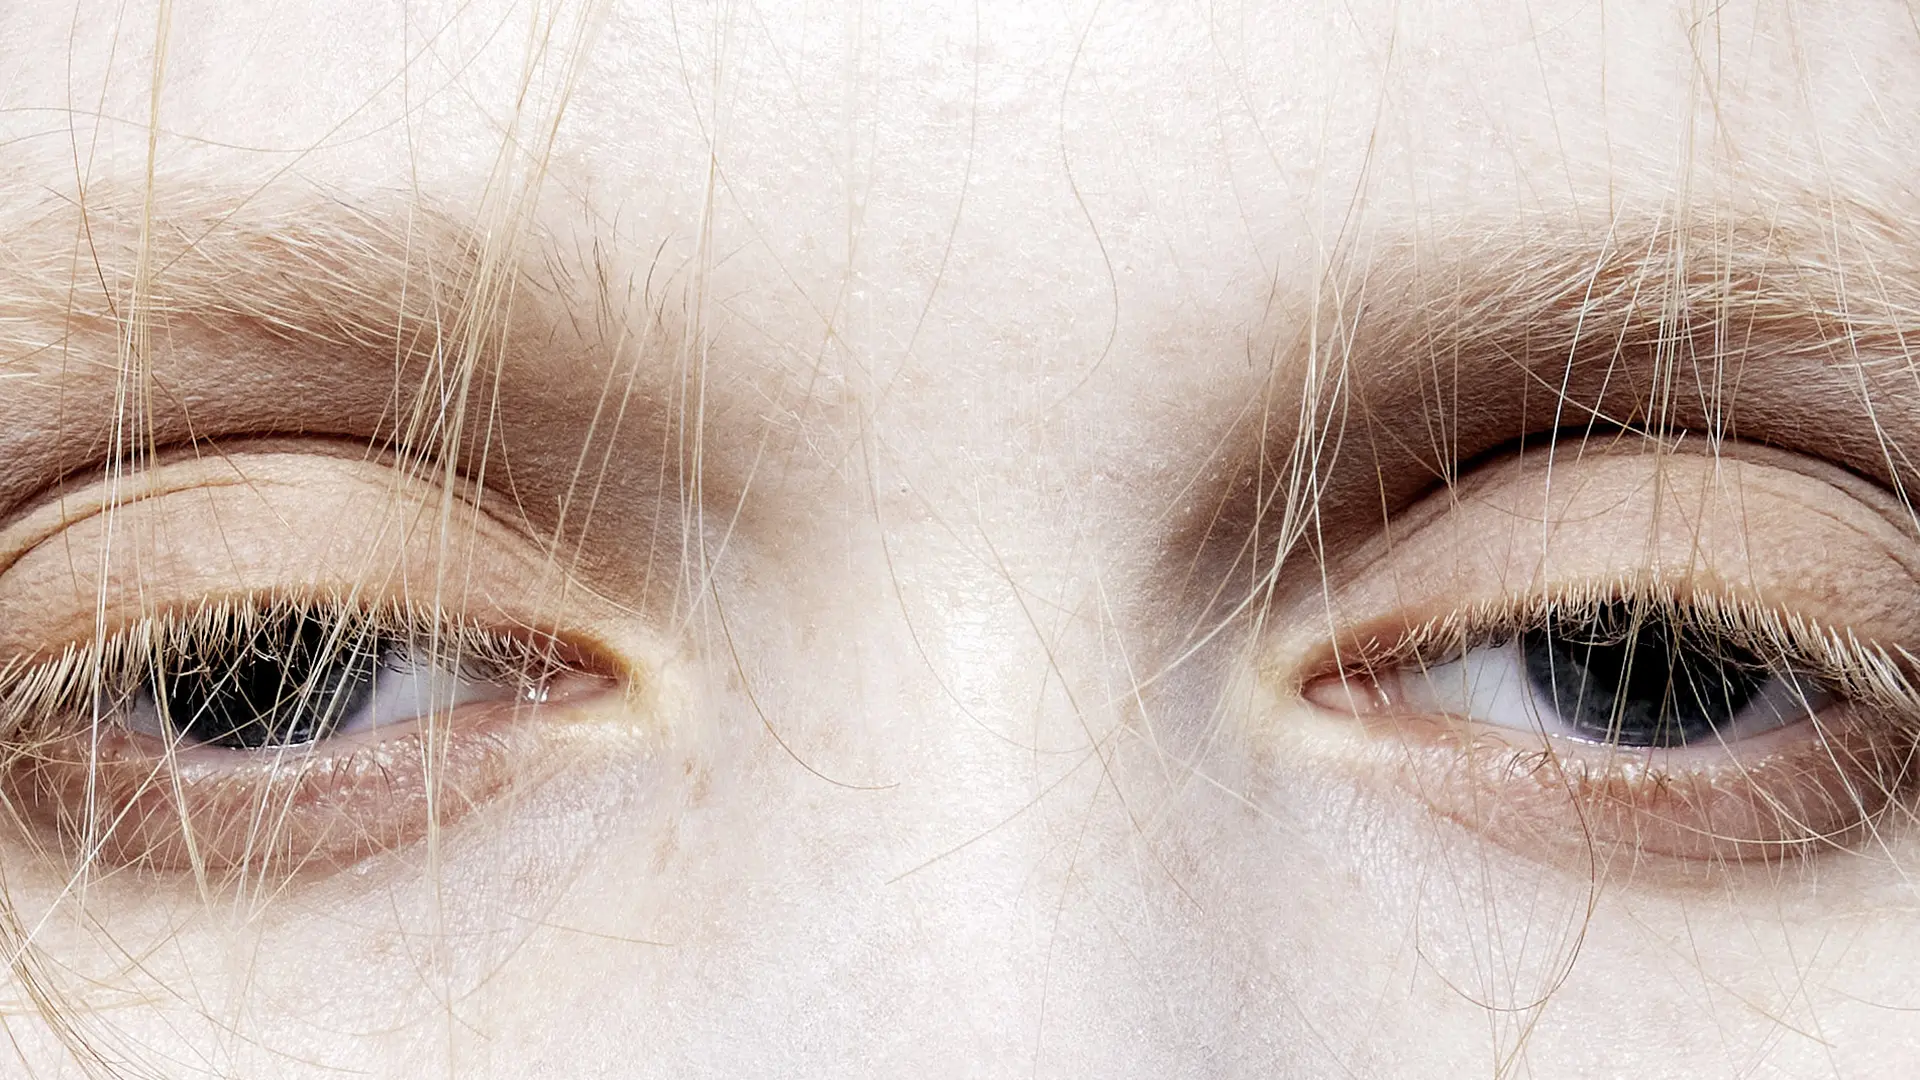
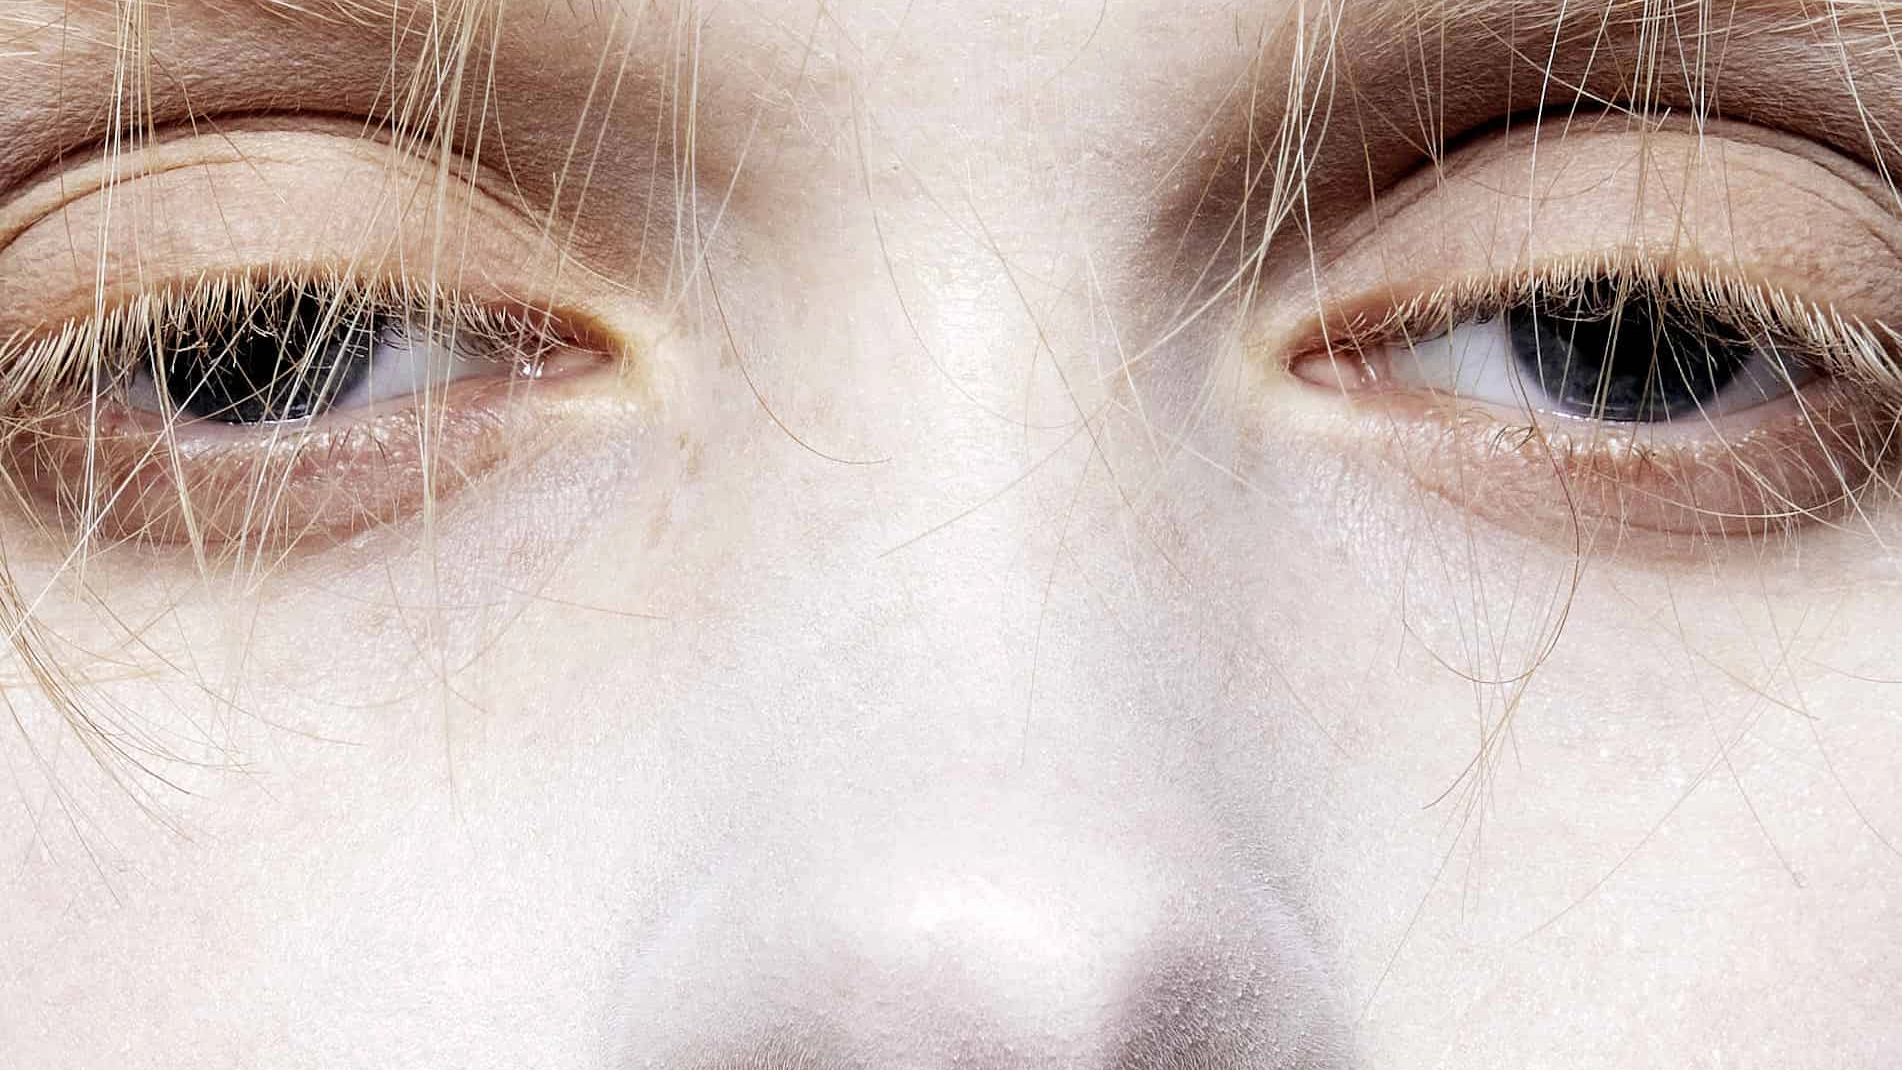
dfdfdfdfdf

diff --git a/commissioned.html b/commissioned.html
@@ -3,7 +3,7 @@
 <head>
     <meta charset="UTF-8">
     <meta name="viewport" content="width=device-width, initial-scale=1.0">
-    <title>Commissioned</title>
+    <title>Zoë Derks. Makeup artist. Editorial work.</title>
 
     <!-- Link to the external main.css file -->
     <link rel="stylesheet" href="main.css">
@@ -74,7 +74,7 @@
 <div id="swipe-arrow" class="swipe-arrow">></div>
 
 <div class="dot-container"></div>
-<div class="text-box" id="text-box">Make up artist</div>
+<div class="text-box" id="text-box">Makeup artist</div>
 
 <!-- Full Page Overlay -->
 <div id="overlay" class="overlay">
@@ -85,7 +85,8 @@
         <!-- First Column (Personal Info and Contact) -->
         <div id="first-column" class="column">
             <h1>ZOË DERKS</h1>
-            <p>freelance makeup artist based in Brussels <br> and Paris, also offering hair styling <br> services on demand.</p>
+            <p>Makeup artist based in Brussels and Paris,<br> also offering hair styling services on demand.</p> 
+            <p>Expertise spans editorial, advertising, runway,<br> (music) artists and private clients.<br><br></p> 
             <p><strong>Let’s get in touch &lt;3</strong></p>
             <p>Email<br> 
                 <a href="mailto:zoe.derks.zd@gmail.com?subject=I%27d%20like%20to%20get%20in%20touch%20with%20you%20%3C3">
@@ -161,29 +162,29 @@
 
 <!-- Image Gallery Section -->
 <div class="image-gallery" id="gallery">
-    <img src="assets/media/Commissioned_001.webp" alt="Commissioned Image 1" data-hover-text="Make up and hair">
-    <img src="assets/media/Commissioned_002.webp" alt="Commissioned Image 2" data-hover-text="Make up and hair">
-    <img src="assets/media/Commissioned_003.webp" alt="Commissioned Image 3" data-hover-text="Make up and hair">
-    <video src="assets/media/Commissioned_004.mp4" autoplay playsinline muted data-hover-text="Make up"></video>
-    <img src="assets/media/Commissioned_005.webp" alt="Commissioned Image 5" data-hover-text="Make up">
-    <img src="assets/media/Commissioned_006.webp" alt="Commissioned Image 6" data-hover-text="Make up and hair">
-    <img src="assets/media/Commissioned_007.webp" alt="Commissioned Image 7" data-hover-text="Make up and hair">
-    <img src="assets/media/Commissioned_008.webp" alt="Commissioned Image 8" data-hover-text="Make up">
-    <img src="assets/media/Commissioned_009.webp" alt="Commissioned Image 9" data-hover-text="Make up and hair">
-    <img src="assets/media/Commissioned_010.webp" alt="Commissioned Image 10" data-hover-text="Make up">
-    <img src="assets/media/Commissioned_011.webp" alt="Commissioned Image 11" data-hover-text="Make up and hair">
-    <img src="assets/media/Commissioned_012.webp" alt="Commissioned Image 12" data-hover-text="Make up">
-    <img src="assets/media/Commissioned_013.webp" alt="Commissioned Image 13" data-hover-text="Make up and hair">
-    <img src="assets/media/Commissioned_014.webp" alt="Commissioned Image 14" data-hover-text="Make up and hair">
-    <video src="assets/media/Commissioned_015.mp4" autoplay playsinline muted data-hover-text="Make up and hair"></video>
-    <img src="assets/media/Commissioned_016.webp" alt="Commissioned Image 16" data-hover-text="Make up and hair">
-    <img src="assets/media/Commissioned_017.webp" alt="Commissioned Image 17" data-hover-text="Make up and hair">
-    <img src="assets/media/Commissioned_018.webp" alt="Commissioned Image 18" data-hover-text="Make up and hair">
-    <img src="assets/media/Commissioned_019.webp" alt="Commissioned Image 19" data-hover-text="Make up and hair">
-    <img src="assets/media/Commissioned_020.webp" alt="Commissioned Image 20" data-hover-text="Make up and hair">
-    <img src="assets/media/Commissioned_021.webp" alt="Commissioned Image 21" data-hover-text="Make up and hair">
-    <img src="assets/media/Commissioned_022.webp" alt="Commissioned Image 22" data-hover-text="Make up and hair">
-    <img src="assets/media/Commissioned_023.webp" alt="Commissioned Image 23" data-hover-text="Make up and hair">
+    <img src="assets/media/Commissioned_001.webp" alt="Commissioned Image 1" data-hover-text="Makeup and hair">
+    <img src="assets/media/Commissioned_002.webp" alt="Commissioned Image 2" data-hover-text="Makeup and hair">
+    <img src="assets/media/Commissioned_003.webp" alt="Commissioned Image 3" data-hover-text="Makeup and hair">
+    <video src="assets/media/Commissioned_004.mp4" autoplay playsinline muted data-hover-text="Makeup"></video>
+    <img src="assets/media/Commissioned_005.webp" alt="Commissioned Image 5" data-hover-text="Makeup">
+    <img src="assets/media/Commissioned_006.webp" alt="Commissioned Image 6" data-hover-text="Makeup and hair">
+    <img src="assets/media/Commissioned_007.webp" alt="Commissioned Image 7" data-hover-text="Makeup and hair">
+    <img src="assets/media/Commissioned_008.webp" alt="Commissioned Image 8" data-hover-text="Makeup">
+    <img src="assets/media/Commissioned_009.webp" alt="Commissioned Image 9" data-hover-text="Makeup and hair">
+    <img src="assets/media/Commissioned_010.webp" alt="Commissioned Image 10" data-hover-text="Makeup">
+    <img src="assets/media/Commissioned_011.webp" alt="Commissioned Image 11" data-hover-text="Makeup and hair">
+    <img src="assets/media/Commissioned_012.webp" alt="Commissioned Image 12" data-hover-text="Makeup">
+    <img src="assets/media/Commissioned_013.webp" alt="Commissioned Image 13" data-hover-text="Makeup and hair">
+    <img src="assets/media/Commissioned_014.webp" alt="Commissioned Image 14" data-hover-text="Makeup and hair">
+    <video src="assets/media/Commissioned_015.mp4" autoplay playsinline muted data-hover-text="Makeup and hair"></video>
+    <img src="assets/media/Commissioned_016.webp" alt="Commissioned Image 16" data-hover-text="Makeup and hair">
+    <img src="assets/media/Commissioned_017.webp" alt="Commissioned Image 17" data-hover-text="Makeup and hair">
+    <img src="assets/media/Commissioned_018.webp" alt="Commissioned Image 18" data-hover-text="Makeup and hair">
+    <img src="assets/media/Commissioned_019.webp" alt="Commissioned Image 19" data-hover-text="Makeup and hair">
+    <img src="assets/media/Commissioned_020.webp" alt="Commissioned Image 20" data-hover-text="Makeup and hair">
+    <img src="assets/media/Commissioned_021.webp" alt="Commissioned Image 21" data-hover-text="Makeup and hair">
+    <img src="assets/media/Commissioned_022.webp" alt="Commissioned Image 22" data-hover-text="Makeup and hair">
+    <img src="assets/media/Commissioned_023.webp" alt="Commissioned Image 23" data-hover-text="Makeup and hair">
 </div>
 
 
@@ -199,13 +200,24 @@
     const swipeArrow = document.getElementById('swipe-arrow');
     
     // Show the arrow for 5 seconds
-    window.onload = () => {
-        swipeArrow.classList.add('show'); // Show the arrow initially
-    
-        setTimeout(() => {
-            swipeArrow.classList.remove('show'); // Hide it after 5 seconds if no action is taken
-        }, 5000);
-    };
+    document.addEventListener('DOMContentLoaded', () => {
+    swipeArrow.classList.add('show'); // Show the arrow initially
+
+    // Hide the arrow for 0.5 seconds after 2 seconds
+    setTimeout(() => {
+        swipeArrow.classList.remove('show'); // Hide the arrow briefly
+    }, 2000);
+
+    // Show the arrow again after 2.5 seconds
+    setTimeout(() => {
+        swipeArrow.classList.add('show'); // Show the arrow again
+    }, 2500);
+
+    // Finally hide the arrow after 5 seconds
+    setTimeout(() => {
+        swipeArrow.classList.remove('show'); // Hide the arrow after 5 seconds
+    }, 5000);
+});
     
     // Listen for scroll events
     window.addEventListener('scroll', hideArrow);
@@ -253,7 +265,7 @@
     
         item.addEventListener('mouseleave', () => {
             // Optionally hide or reset the text box text
-            textBoxElement.innerText = 'Make up artist'; // Reset to default text
+            textBoxElement.innerText = 'Makeup artist'; // Reset to default text
         });
     });
     
@@ -292,6 +304,43 @@
         }, 300); // Match the fade-out duration (300ms)
     });
     
+    document.addEventListener('DOMContentLoaded', () => {
+    const options = {
+        root: null, // Use the viewport as the container
+        rootMargin: '0px', // No margin
+        threshold: 0.5 // 50% of the element must cross the center line
+    };
+
+    const observer = new IntersectionObserver((entries) => {
+        entries.forEach((entry) => {
+            if (entry.isIntersecting) {
+                // Update text-box with the intersecting image/video's hover text
+                const hoverText = entry.target.getAttribute('data-hover-text');
+                if (hoverText) {
+                    textBoxElement.innerText = hoverText; // Update text
+                }
+            }
+        });
+    }, options);
+
+    // Observe all images and videos in the gallery
+    imagesAndVideos.forEach((item) => {
+        observer.observe(item);
+    });
+});
+
+document.addEventListener('DOMContentLoaded', () => {
+    // Get all video elements on the page
+    const videos = document.querySelectorAll('video');
+
+    // Loop through each video and add the event listener for the 'ended' event
+    videos.forEach((video) => {
+        video.addEventListener('ended', () => {
+            video.currentTime = 0;  // Reset video to the start
+            video.play();  // Play the video again
+        });
+    });
+});
     </script>
     
 

diff --git a/editorial.html b/editorial.html
@@ -3,7 +3,7 @@
 <head>
     <meta charset="UTF-8">
     <meta name="viewport" content="width=device-width, initial-scale=1.0">
-    <title>Editorial</title>
+    <title>Zoë Derks. Makeup artist. Editorial work.</title>
 
     <!-- Link to the external main.css file -->
     <link rel="stylesheet" href="main.css">
@@ -74,7 +74,7 @@
 <div id="swipe-arrow" class="swipe-arrow">></div>
 
 <div class="dot-container"></div>
-<div class="text-box" id="text-box">Make up artist</div>
+<div class="text-box" id="text-box">Makeup artist</div>
 
 <!-- Full Page Overlay -->
 <div id="overlay" class="overlay">
@@ -85,7 +85,8 @@
         <!-- First Column (Personal Info and Contact) -->
         <div id="first-column" class="column">
             <h1>ZOË DERKS</h1>
-            <p>freelance makeup artist based in Brussels <br> and Paris, also offering hair styling <br> services on demand.</p>
+            <p>Makeup artist based in Brussels and Paris,<br> also offering hair styling services on demand.</p> 
+            <p>Expertise spans editorial, advertising, runway,<br> (music) artists and private clients.<br><br></p> 
             <p><strong>Let’s get in touch &lt;3</strong></p>
             <p>Email<br> 
                 <a href="mailto:zoe.derks.zd@gmail.com?subject=I%27d%20like%20to%20get%20in%20touch%20with%20you%20%3C3">
@@ -161,26 +162,26 @@
 
 <!-- Image Gallery Section -->
 <div class="image-gallery" id="gallery">
-<img src="assets/media/Editorial_001.webp" alt="Editorial Image 1" data-hover-text="Make up">
-<img src="assets/media/Editorial_002.webp" alt="Editorial Image 2" data-hover-text="Make up">
-<img src="assets/media/Editorial_003.webp" alt="Editorial Image 3" data-hover-text="Make up">
-<img src="assets/media/Editorial_004.webp" alt="Editorial Image 4" data-hover-text="Make up and hair">
-<img src="assets/media/Editorial_005.webp" alt="Editorial Image 5" data-hover-text="Make up and hair">
-<img src="assets/media/Editorial_006.webp" alt="Editorial Image 6" data-hover-text="Make up and hair">
-<img src="assets/media/Editorial_007.webp" alt="Editorial Image 7" data-hover-text="Make up">
-<img src="assets/media/Editorial_008.webp" alt="Editorial Image 8" data-hover-text="Make up">
-<img src="assets/media/Editorial_009.webp" alt="Editorial Image 9" data-hover-text="Make up and hair">
-<img src="assets/media/Editorial_010.webp" alt="Editorial Image 10" data-hover-text="Make up">
-<img src="assets/media/Editorial_011.webp" alt="Editorial Image 11" data-hover-text="Make up and hair">
-<img src="assets/media/Editorial_012.webp" alt="Editorial Image 12" data-hover-text="Make up and hair">
-<img src="assets/media/Editorial_013.webp" alt="Editorial Image 13" data-hover-text="Make up">
-<img src="assets/media/Editorial_014.webp" alt="Editorial Image 14" data-hover-text="Make up and hair">
-<img src="assets/media/Editorial_015.webp" alt="Editorial Image 15" data-hover-text="Make up">
-<img src="assets/media/Editorial_016.webp" alt="Editorial Image 16" data-hover-text="Make up">
-<img src="assets/media/Editorial_017.webp" alt="Editorial Image 17" data-hover-text="Make up">
-<img src="assets/media/Editorial_018.webp" alt="Editorial Image 18" data-hover-text="Make up">
-<img src="assets/media/Editorial_019.webp" alt="Editorial Image 19" data-hover-text="Make up and hair">
-<img src="assets/media/Editorial_020.webp" alt="Editorial Image 20" data-hover-text="Make up and hair">
+<img src="assets/media/Editorial_001.webp" alt="Editorial Image 1" data-hover-text="Makeup">
+<img src="assets/media/Editorial_002.webp" alt="Editorial Image 2" data-hover-text="Makeup">
+<img src="assets/media/Editorial_003.webp" alt="Editorial Image 3" data-hover-text="Makeup">
+<img src="assets/media/Editorial_004.webp" alt="Editorial Image 4" data-hover-text="Makeup and hair">
+<img src="assets/media/Editorial_005.webp" alt="Editorial Image 5" data-hover-text="Makeup and hair">
+<img src="assets/media/Editorial_006.webp" alt="Editorial Image 6" data-hover-text="Makeup and hair">
+<img src="assets/media/Editorial_007.webp" alt="Editorial Image 7" data-hover-text="Makeup">
+<img src="assets/media/Editorial_008.webp" alt="Editorial Image 8" data-hover-text="Makeup">
+<img src="assets/media/Editorial_009.webp" alt="Editorial Image 9" data-hover-text="Makeup and hair">
+<img src="assets/media/Editorial_010.webp" alt="Editorial Image 10" data-hover-text="Makeup">
+<img src="assets/media/Editorial_011.webp" alt="Editorial Image 11" data-hover-text="Makeup and hair">
+<img src="assets/media/Editorial_012.webp" alt="Editorial Image 12" data-hover-text="Makeup and hair">
+<img src="assets/media/Editorial_013.webp" alt="Editorial Image 13" data-hover-text="Makeup">
+<img src="assets/media/Editorial_014.webp" alt="Editorial Image 14" data-hover-text="Makeup and hair">
+<img src="assets/media/Editorial_015.webp" alt="Editorial Image 15" data-hover-text="Makeup">
+<img src="assets/media/Editorial_016.webp" alt="Editorial Image 16" data-hover-text="Makeup">
+<img src="assets/media/Editorial_017.webp" alt="Editorial Image 17" data-hover-text="Makeup">
+<img src="assets/media/Editorial_018.webp" alt="Editorial Image 18" data-hover-text="Makeup">
+<img src="assets/media/Editorial_019.webp" alt="Editorial Image 19" data-hover-text="Makeup and hair">
+<img src="assets/media/Editorial_020.webp" alt="Editorial Image 20" data-hover-text="Makeup and hair">
 </div>
 
 <!-- Modal for Enlarged Images -->
@@ -202,7 +203,7 @@
     
         item.addEventListener('mouseleave', () => {
             // Optionally hide or reset the text box text
-            textBoxElement.innerText = 'Make up artist'; // Reset to default text
+            textBoxElement.innerText = 'Makeup artist'; // Reset to default text
         });
     });
     
@@ -245,13 +246,24 @@
     const swipeArrow = document.getElementById('swipe-arrow');
     
     // Show the arrow for 5 seconds
-    window.onload = () => {
-        swipeArrow.classList.add('show'); // Show the arrow initially
-    
-        setTimeout(() => {
-            swipeArrow.classList.remove('show'); // Hide it after 5 seconds if no action is taken
-        }, 5000);
-    };
+    document.addEventListener('DOMContentLoaded', () => {
+    swipeArrow.classList.add('show'); // Show the arrow initially
+
+    // Hide the arrow for 0.5 seconds after 2 seconds
+    setTimeout(() => {
+        swipeArrow.classList.remove('show'); // Hide the arrow briefly
+    }, 2000);
+
+    // Show the arrow again after 2.5 seconds
+    setTimeout(() => {
+        swipeArrow.classList.add('show'); // Show the arrow again
+    }, 2500);
+
+    // Finally hide the arrow after 5 seconds
+    setTimeout(() => {
+        swipeArrow.classList.remove('show'); // Hide the arrow after 5 seconds
+    }, 5000);
+});
     
     // Listen for scroll events
     window.addEventListener('scroll', hideArrow);
@@ -285,6 +297,45 @@
     function hideArrow() {
         swipeArrow.classList.remove('show'); // Remove the 'show' class to hide the arrow
     }
+
+    document.addEventListener('DOMContentLoaded', () => {
+    const options = {
+        root: null, // Use the viewport as the container
+        rootMargin: '0px', // No margin
+        threshold: 0.5 // 50% of the element must cross the center line
+    };
+
+    const observer = new IntersectionObserver((entries) => {
+        entries.forEach((entry) => {
+            if (entry.isIntersecting) {
+                // Update text-box with the intersecting image/video's hover text
+                const hoverText = entry.target.getAttribute('data-hover-text');
+                if (hoverText) {
+                    textBoxElement.innerText = hoverText; // Update text
+                }
+            }
+        });
+    }, options);
+
+    // Observe all images and videos in the gallery
+    imagesAndVideos.forEach((item) => {
+        observer.observe(item);
+    });
+});
+
+document.addEventListener('DOMContentLoaded', () => {
+    // Get all video elements on the page
+    const videos = document.querySelectorAll('video');
+
+    // Loop through each video and add the event listener for the 'ended' event
+    videos.forEach((video) => {
+        video.addEventListener('ended', () => {
+            video.currentTime = 0;  // Reset video to the start
+            video.play();  // Play the video again
+        });
+    });
+});
+
     </script>
     
 

diff --git a/index.html b/index.html
@@ -4,10 +4,26 @@
     <meta charset="UTF-8">
     <meta name="viewport" content="width=device-width, initial-scale=1, maximum-scale=1, user-scalable=no">
     <meta name="apple-mobile-web-app-capable" content="yes">
-    <title>Cursor Movement Image Display</title>
+    <title>Zoë Derks. Makeup artist. Based in Brussels and Paris, also offering hair styling services on demand.</title>
 
     <!-- Link to the external main.css file -->
     <link rel="stylesheet" href="main.css">
+
+    <!--  Twitter Card Meta Tags -- we need to replace the path and add it to the other subsites --> 
+    <meta property="og:title" content="Zoë Derks - Makeup Artist">
+    <meta property="og:description" content="Makeup artist based in Brussels and Paris, offering hair styling services on demand. Expertise in editorial, advertising, and runway.">
+    <meta property="og:image" content="https://yourwebsite.com/assets/images/social-thumbnail.jpg">
+    <meta property="og:url" content="https://yourwebsite.com">
+    <meta property="og:type" content="website">
+
+    <!-- Twitter Card Meta Tags -- we need to replace the path and add it to the other subsites -->
+    <meta name="twitter:card" content="summary_large_image">
+    <meta name="twitter:title" content="Zoë Derks - Makeup Artist">
+    <meta name="twitter:description" content="Makeup artist based in Brussels and Paris, offering hair styling services on demand. Expertise in editorial, advertising, and runway.">
+    <meta name="twitter:image" content="">
+
+     <!-- Favicon in ico with nofallback -->
+    <link rel="icon" href="assets/favicon/Favicon.ico" type="image/ico">
     
 </head>
 <body>
@@ -26,7 +42,7 @@
 
 <div class="dot-container"></div>
 
-<div class="text-box" id="textBox">Make up artist</div>
+<div class="text-box" id="textBox">Makeup artist</div>
 
 <!-- Full Page Overlay -->
 <div id="overlay" class="overlay">
@@ -37,7 +53,8 @@
         <!-- First Column (Personal Info and Contact) -->
         <div id="first-column" class="column">
             <h1>ZOË DERKS</h1>
-            <p>Makeup artist based in Brussels and Paris,<br> also offering hair styling services on demand.<br> <br> Expertise spans editorial, advertising, runway, <br>(music) artists and private clients. <br>  <br> </p>
+            <p>Makeup artist based in Brussels and Paris,<br> also offering hair styling services on demand.</p> 
+            <p>Expertise spans editorial, advertising, runway,<br> (music) artists and private clients.<br><br></p> 
             <p><strong>Let’s get in touch &lt;3</strong></p>
             <p class="email">
                 Email<br>

diff --git a/main.css b/main.css
@@ -9,6 +9,8 @@
             height: 100vh;
             background-image: url('assets/media/background.webp');
             background-size: cover;
+            background-position: center 0%; /* Adjust the vertical positioning */
+            background-repeat: no-repeat; /* Prevent repeating of background */
             cursor: url('assets/cursors/arrow.png'), auto;
         }
 
